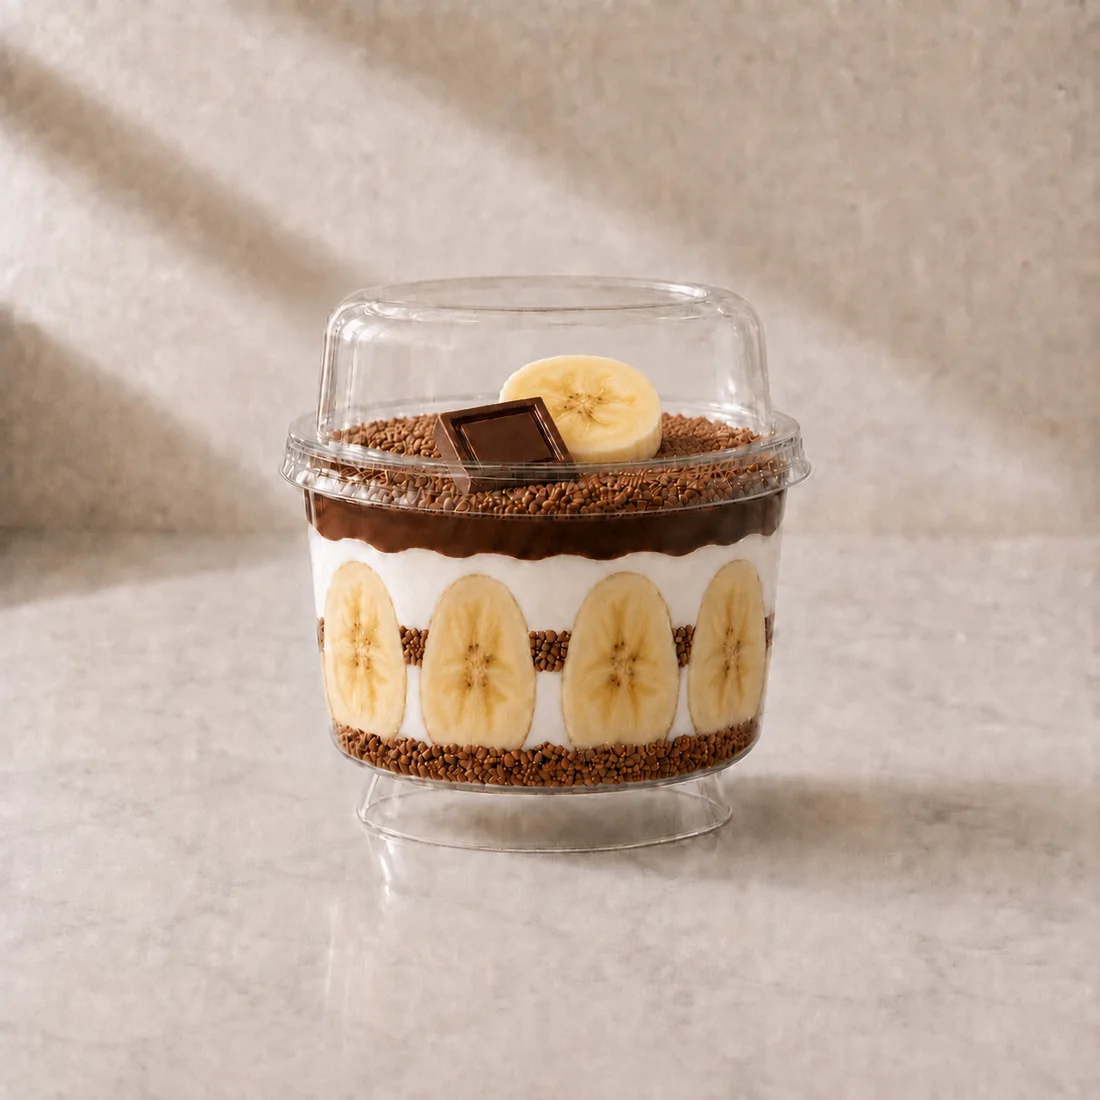
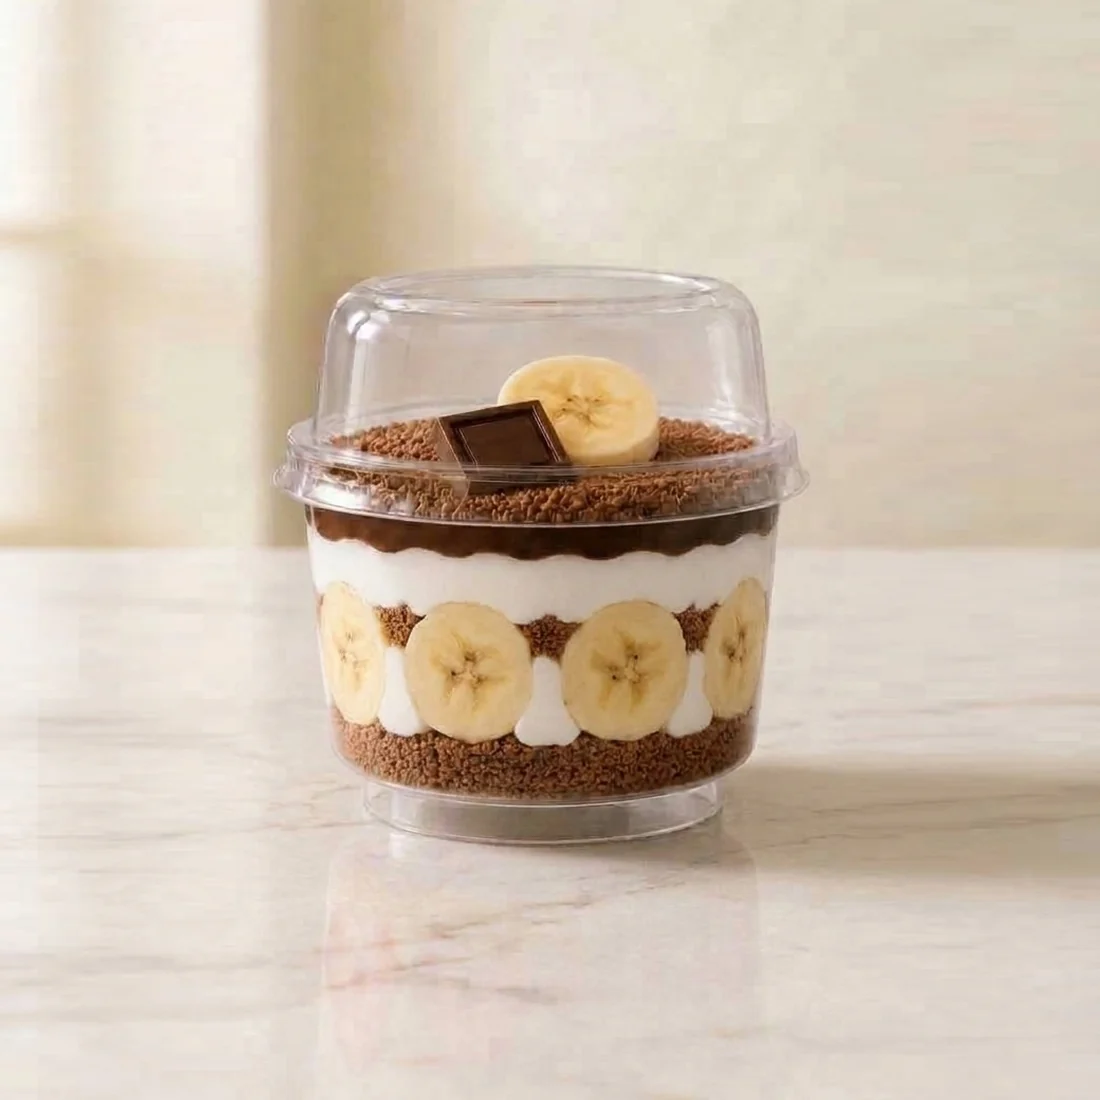
13 ürünün görsellerini yeni açık zemin ve beyaz krema tarzına çevir
Sitedeki orijinal tatlıdan Gemini ile türetildi: kap, mermer zemin ve ışık
temel görsellerden, katmanlar ve süs orijinalden. Kırıklar ince ve kumsu,
muzlu ürünlerde muz yuvarlak dilim.

Yenilenenler: Çilekli Muzlu Çikolatalı, Muzlu Çikolatalı, Kakaolu Bisküvili
Çilekli Çikolatalı, Kakaolu Bisküvili Muzlu Çikolatalı, Kakaolu Bisküvili
Çilekli Muzlu Çikolatalı, Çikolatalı, Oreolu, Lotuslu, Cevizli, Kakaolu
Bisküvili Çikolatalı, Cevizli Çikolatalı, Balkabaklı, Çilekli Çikolatalı Cup.

Kullanılan akış ve komutlar instagram/gemini-komutlari.md dosyasına eklendi.

diff --git a/instagram/gemini-komutlari.md b/instagram/gemini-komutlari.md
@@ -198,6 +198,51 @@ Change only this:
 - On top, replace the whole strawberry with two round banana slices lying flat on the crumbs, slightly overlapping.
 ```
 
+## Kalan ürünler: sitedeki orijinalden türetme (2026-11-11)
+
+Eski görseli duran ürünlerde tarif zaten sitedeki görselde; tatlı oradan alınır, kap, zemin ve ışık temel görselden. Her tur **yeni sohbette** ve + menüsünden **Görüntü oluştur** seçilerek yapılır. Bu seçilmezse Gemini bazen "yalnızca bir dil modeliyim" deyip görsel üretmiyor. Ücretsiz hesapta yaklaşık 15 görselden sonra birkaç saatlik sınır geliyor.
+
+1. **Kupa:** 1. görsel `yeni-gorseller/temel-kupa.jpg`, 2. görsel sitedeki orijinal kupa (webp, png'ye çevrilerek) + kupa metni.
+2. **İnce kırık:** 1. turun sonucu + kırık metni. Gemini kırıkları orijinaldeki gibi boncuk taneli kopyalıyor; bu tur onları kumsu yapıyor.
+3. **Yuvarlak muz (muzlularda):** 2. turun sonucu + muz metni. Orijinallerde muz uzun oval; yenilenen ürünlerde yuvarlak dilim.
+4. **Kavanoz:** 1. görsel `yeni-gorseller/temel-kavanoz.png`, 2. görsel son kupa + kavanoz metni.
+
+Site karesi: kupa `python3 instagram/sablon/site-kare.py <kupa.jpg> <slug>.webp 0.94559 -126.54 219.32`, kavanoz `... <slug>-kavanoz.webp 0.930909 0 0`.
+
+Kupa metni (kakaolularda `The biscuit crumbs` yerine `The cocoa biscuit crumbs`):
+```text
+Edit the first photo. Keep from it only the container and its lid, its size, position and camera angle, the marble countertop, background and light. Same image size as the first photo, no text. Change the dessert inside so it is the same dessert as in the second photo, with the same layers from top to bottom, the same fruit pieces in the same arrangement and the same topping. The cream is a clean, soft, pure white milk cream with no yellow tint. The biscuit crumbs are very finely ground, like coarse sand: mostly fine sandy crumbs and biscuit powder with tiny irregular bits of slightly different sizes, none bigger than a strawberry seed; each crumb layer stays full and dense. Crisp, in perfect focus, photorealistic.
+```
+
+Kırık metni (kakaolularda renk `in a rich medium-dark cocoa brown`, malzeme `cocoa biscuit crumbs ... cocoa biscuit powder`):
+```text
+Edit this photo. Change only the crumb texture; do not change anything else. The container, lid, clear foot, size, position, camera angle, marble countertop, background, light, the white cream, the chocolate sauce, the fruit and the topping stay exactly as they are, sharp and detailed. Every layer keeps exactly the same shape, height and position. Same image size, no text. The crumbs now look like round granules or beads, which is wrong. Crush them much finer: very finely ground tea biscuit crumbs in a warm pale golden beige, like coarse sand: most of it is very fine sandy crumbs and biscuit powder, naturally mixed with tiny irregular bits of slightly different sizes. The largest bit is only about the size of a strawberry seed. No big chunks, no granules, no flakes, no round beads, no pattern. Each crumb layer stays full and dense, matte, dry and natural. Crisp, in perfect focus, photorealistic.
+```
+
+Muz metni (çilekli muzlularda "the strawberry halves" korunanlara eklenir, sona "so strawberry and banana still alternate"). İlk denemede "about as wide as the oval piece" yazınca dilimler birbirine değdi; "a little narrower" ve krema şeridi tarifiyle düzeldi:
+```text
+Edit this photo. Change only the banana pieces on the front wall; do not change anything else. The container, lid, clear foot, size, position, camera angle, marble countertop, background, light, the crumbs, the white cream above the fruit row, the chocolate sauce and the topping stay exactly as they are, sharp and detailed. Same image size, no text. Each tall oval banana piece on the wall becomes one fresh round banana slice, about 1 cm thick, pressed flat against the wall so its cut face shows: a natural, slightly irregular circle, pale creamy ivory-yellow, slightly translucent and moist, with a faint darker ring just inside its edge and a small soft star of tiny dark brown seeds in the very center, crisp edges, sharp focus. Each round slice is a little narrower than the oval piece it replaces and stands in its place with its bottom edge on the crumb base. The slices must not touch each other: between every two neighbouring slices there is a wide vertical strip of smooth white cream running from the crumb base up to the cream above the fruit row, with a small patch of fine crumbs at the top of each gap, like between the oval pieces now. The cream is one smooth continuous filling, not separate lumps, balls or drops. Crisp, in perfect focus, photorealistic.
+```
+
+Kavanoz metni:
+```text
+Edit the first photo (the glass jar). Keep everything in it exactly the same: the same glass jar with no lid, size, position and camera angle, the same marble countertop, background and light. Same image size as the first photo, no text. Change only the dessert inside, so it is the same dessert as in the second photo: the same layers from top to bottom in the same order and proportions, the same very fine sandy biscuit crumbs, pure white cream, glossy chocolate sauce and fruit, looking exactly like in the second photo, and the same topping. The fruit pieces against the glass are arranged like in the second photo: they stand clearly apart with their bottom edges on the crumb base, and between every two neighbouring pieces there is a vertical strip of smooth white cream with a small crumb patch at its top. The cream is one smooth continuous filling, not separate lumps or drops. Crisp, in perfect focus, photorealistic.
+```
+
+Ek bulgular:
+
+- Muzlularda kırık ve yuvarlak muz tek turda istenebilir: "Change only two things: the crumb texture and the banana pieces on the front wall", ardından (1) kırık, (2) muz maddeleri. İlk tura (kupa) eklenen muz/kırık istekleri ise dikkate alınmıyor.
+- Gemini bazen görsel modunda bile "yalnızca bir dil modeliyim" diyor. "Yeniden yap" düğmesi bir menü açar; oradaki **Tekrar dene** genelde görseli üretir.
+- Kakaolu kavanozda üst katman çikolata talaşına dönebiliyor ve süs ikiye katlanabiliyor. Kavanoz metninde üst katmanı ("the same very fine sandy cocoa biscuit crumbs ..., not chocolate shavings or curls") ve süsü ("only one small square piece of dark chocolate and ...") açıkça yazmak düzeltti.
+- Yatay katmanlılarda (B) kavanoz metni katmanları sırayla sayar ve "There is no fruit." der. Çikolatalı'da ilk turun kırıkları zaten ince çıktı, kırık turu gerekmedi. Oreolu'da kırık turu Oreo tarifiyle yapıldı.
+- Kırık turu kupa görselini de netleştiriyor.
+
+- Yatay katmanlılarda ve Cup serisinde en güvenli yol katmanları komutta numaralayarak saymak: "with exactly these horizontal layers from top to bottom, in the same heights as in the second photo: (1) ..., (2) ...". Saymayınca Kakaolu Bisküvili Çikolatalı'da iki çikolata sosu katmanı kırığa döndü, Balkabaklı kavanozda üst kırığın altına balkabağı yerine krema geldi ("directly under the crumbs ..., there is no white cream directly under the top crumbs" yazınca düzeldi).
+- Kavanozda süs (Lotus bisküvisi, ceviz) büyüyüp yatabiliyor: "in the same size as in the second photo relative to the container, perfectly straight and upright, rises only a little above the rim, not tilted and not oversized".
+- Cup serisi katmanları: (1) üst yüzeyi oluşturan kalın parlak çikolata sosu, üstünde küp meyve yığını, üstte kırık yok, (2) beyaz krema, (3) duvara dayalı küp meyve şeridi, (4) beyaz krema, (5) ince kırık taban.
+
+Bu yolla 2026-11-11'de yenilenenler (ara görseller `yeni-gorseller/deneme/yeni3-*`): Çilekli Muzlu Çikolatalı, Muzlu Çikolatalı, Kakaolu Bisküvili Çilekli Çikolatalı, Kakaolu Bisküvili Muzlu Çikolatalı, Kakaolu Bisküvili Çilekli Muzlu Çikolatalı, Çikolatalı, Oreolu, Lotuslu, Cevizli, Kakaolu Bisküvili Çikolatalı, Cevizli Çikolatalı, Balkabaklı, Çilekli Çikolatalı Cup.
+
 ## B ve C grupları (sonra)
 
 Bu grupların düzeni Çilekli'den farklı. Önce her grubun ilk ürünü (B için Çikolatalı Magnolya, C için Çilekli Çikolatalı Cup) Çilekli'deki gibi tur tur yapılacak; o görsel beğenilince grubun geri kalanı A grubundaki gibi ondan türetilecek. Aşağıdaki tarifler o zaman komuta dönüştürülecek ham malzeme; katman sırası sitedeki görsellerden.
